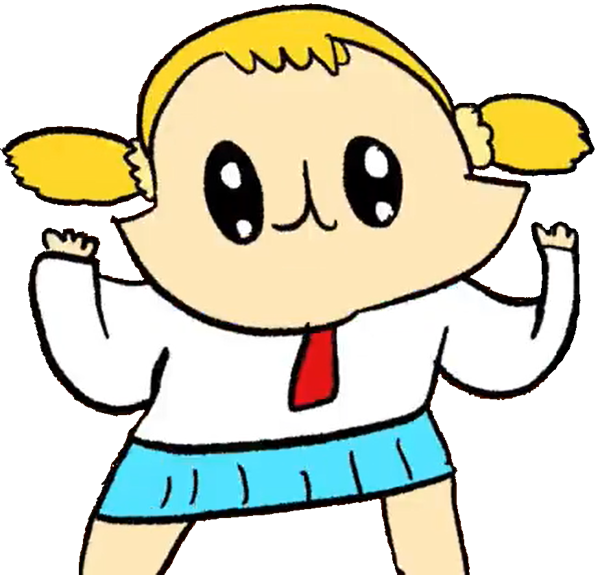
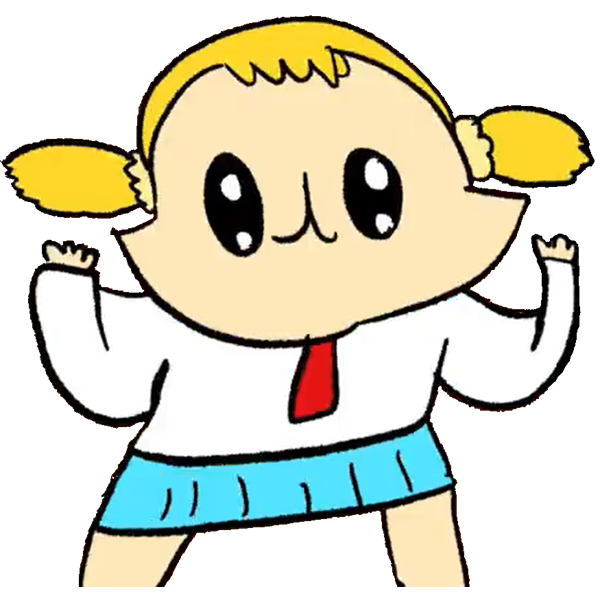
ポプ子を表示できるように

diff --git a/popuko.js b/popuko.js
@@ -1,0 +1,35 @@
+let STATE;
+let state;
+
+class Popuko{
+    constructor(){
+        this.STATE = {
+            Normal : 1,
+            Kawaii : 2,
+            Moumita : 3
+        };
+        this.state = this.STATE.Normal;
+    }
+
+    step(){
+
+    }
+
+    draw(){
+        switch (this.state) {
+            case 1:
+                drawImage("popuko1", 130, 170, 240, 240);
+                break;
+            case 2:
+                drawImage("popuko2", 110, 140, 270, 270);
+                break;
+            case 3:
+                drawImage("popuko3", 130, 150, 250, 250);
+                break;
+        
+            default:
+                drawImage("popuko1", 130, 170, 240, 240);
+                break;
+        }
+    }
+}

diff --git a/game_scene.js b/game_scene.js
@@ -9,6 +9,7 @@ let text;
 let len;
 let textSize;
 let tmpNum = 0;
+let popuko;
 
 class Game{
     constructor(){
@@ -26,6 +27,7 @@ class Game{
         this.text = "";
         this.len = 0;
         this.textSize = "0px";
+        popuko = new Popuko();
     }
 
     choice(){
@@ -45,6 +47,7 @@ class Game{
     }
 
     draw(){
+        popuko.draw();
         if (this.isHukidashi1) drawImage("hukidashi1", 60, 300, 325, 100);
         drawImage(this.nowData.key, 385, 30, 200, 235);
         this.text = this.nowData.name + "だ～！";

diff --git a/main.js b/main.js
@@ -23,6 +23,9 @@ const init = _ =>{
     loadImage("ready", "draft/game1.png");
     loadImage("game", "res/game.png");
     loadImage("hukidashi1", "res/hukidashi1.png");
+    loadImage("popuko1", "res/popuko1.png");
+    loadImage("popuko2", "res/popuko2.png");
+    loadImage("popuko3", "res/popuko3.png");
     loadImages("res/animal");
     window.requestAnimationFrame(step);
 }

diff --git a/index.html b/index.html
@@ -16,6 +16,7 @@
     <script src="ready.js"></script>
     <script src="game_scene.js"></script>            
     <script src="key_manager.js"></script>            
+    <script src="popuko.js"></script>            
 </head>
 <body onload="init()">
     <canvas id="canvas" width="600" height="400"></canvas>
